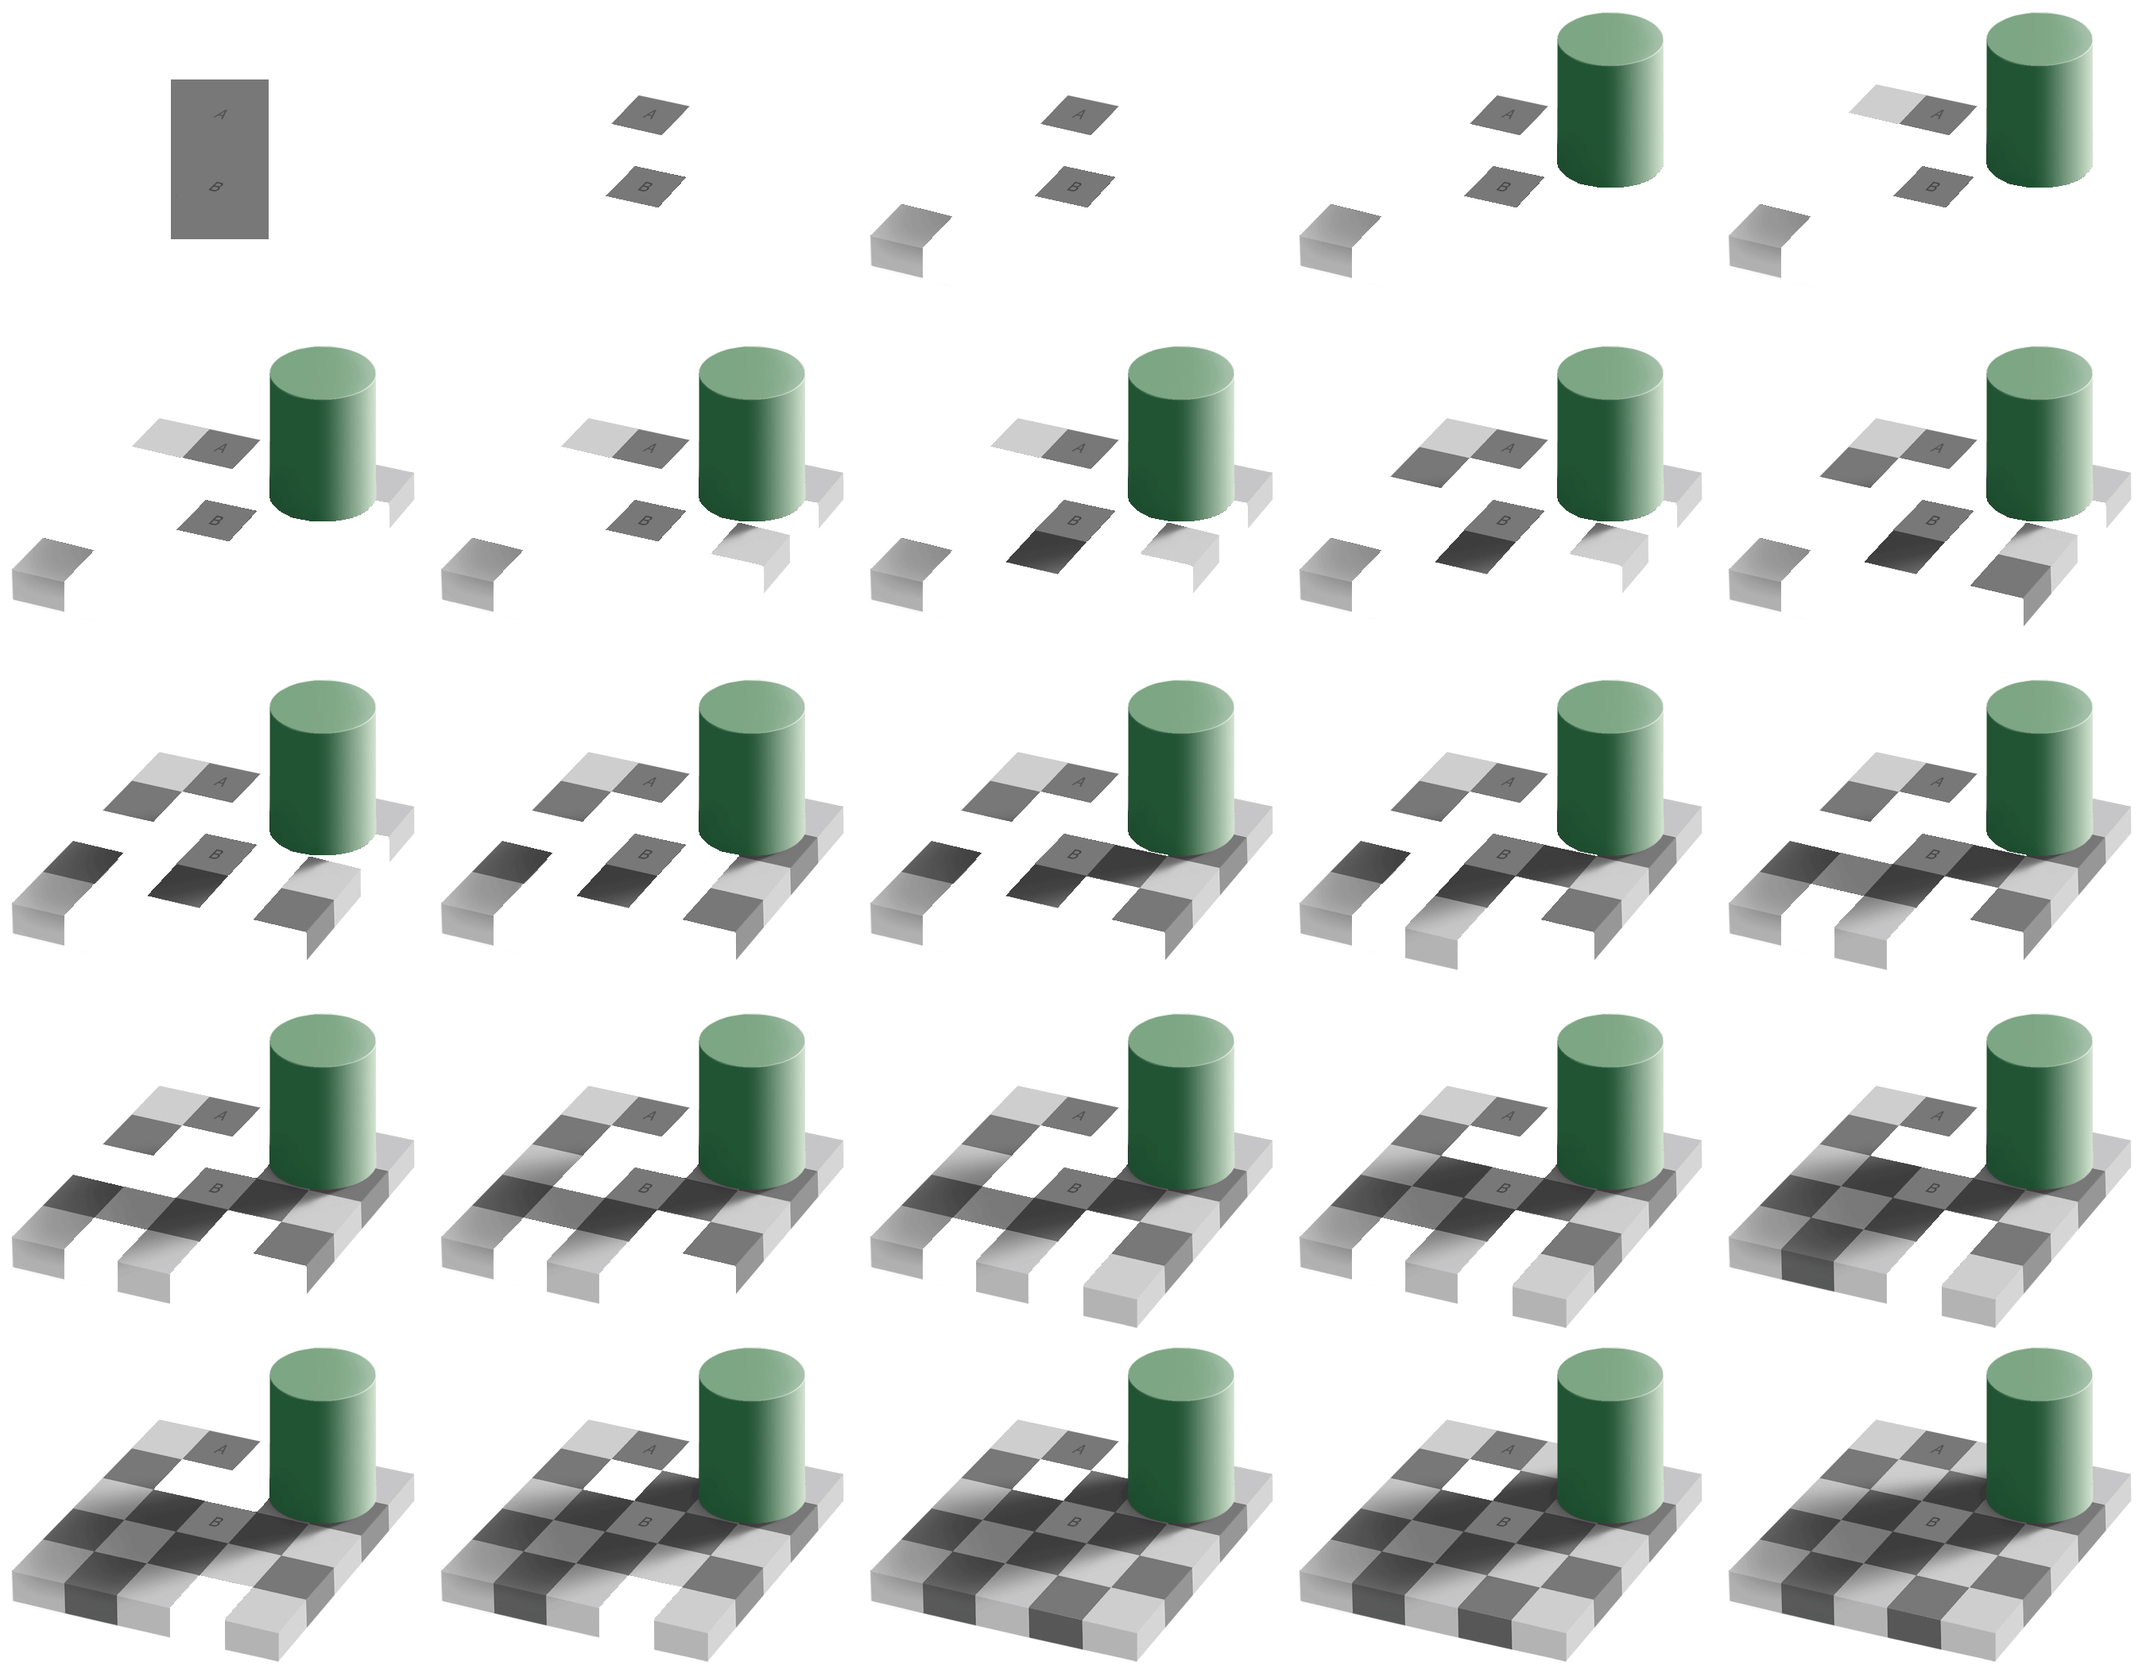
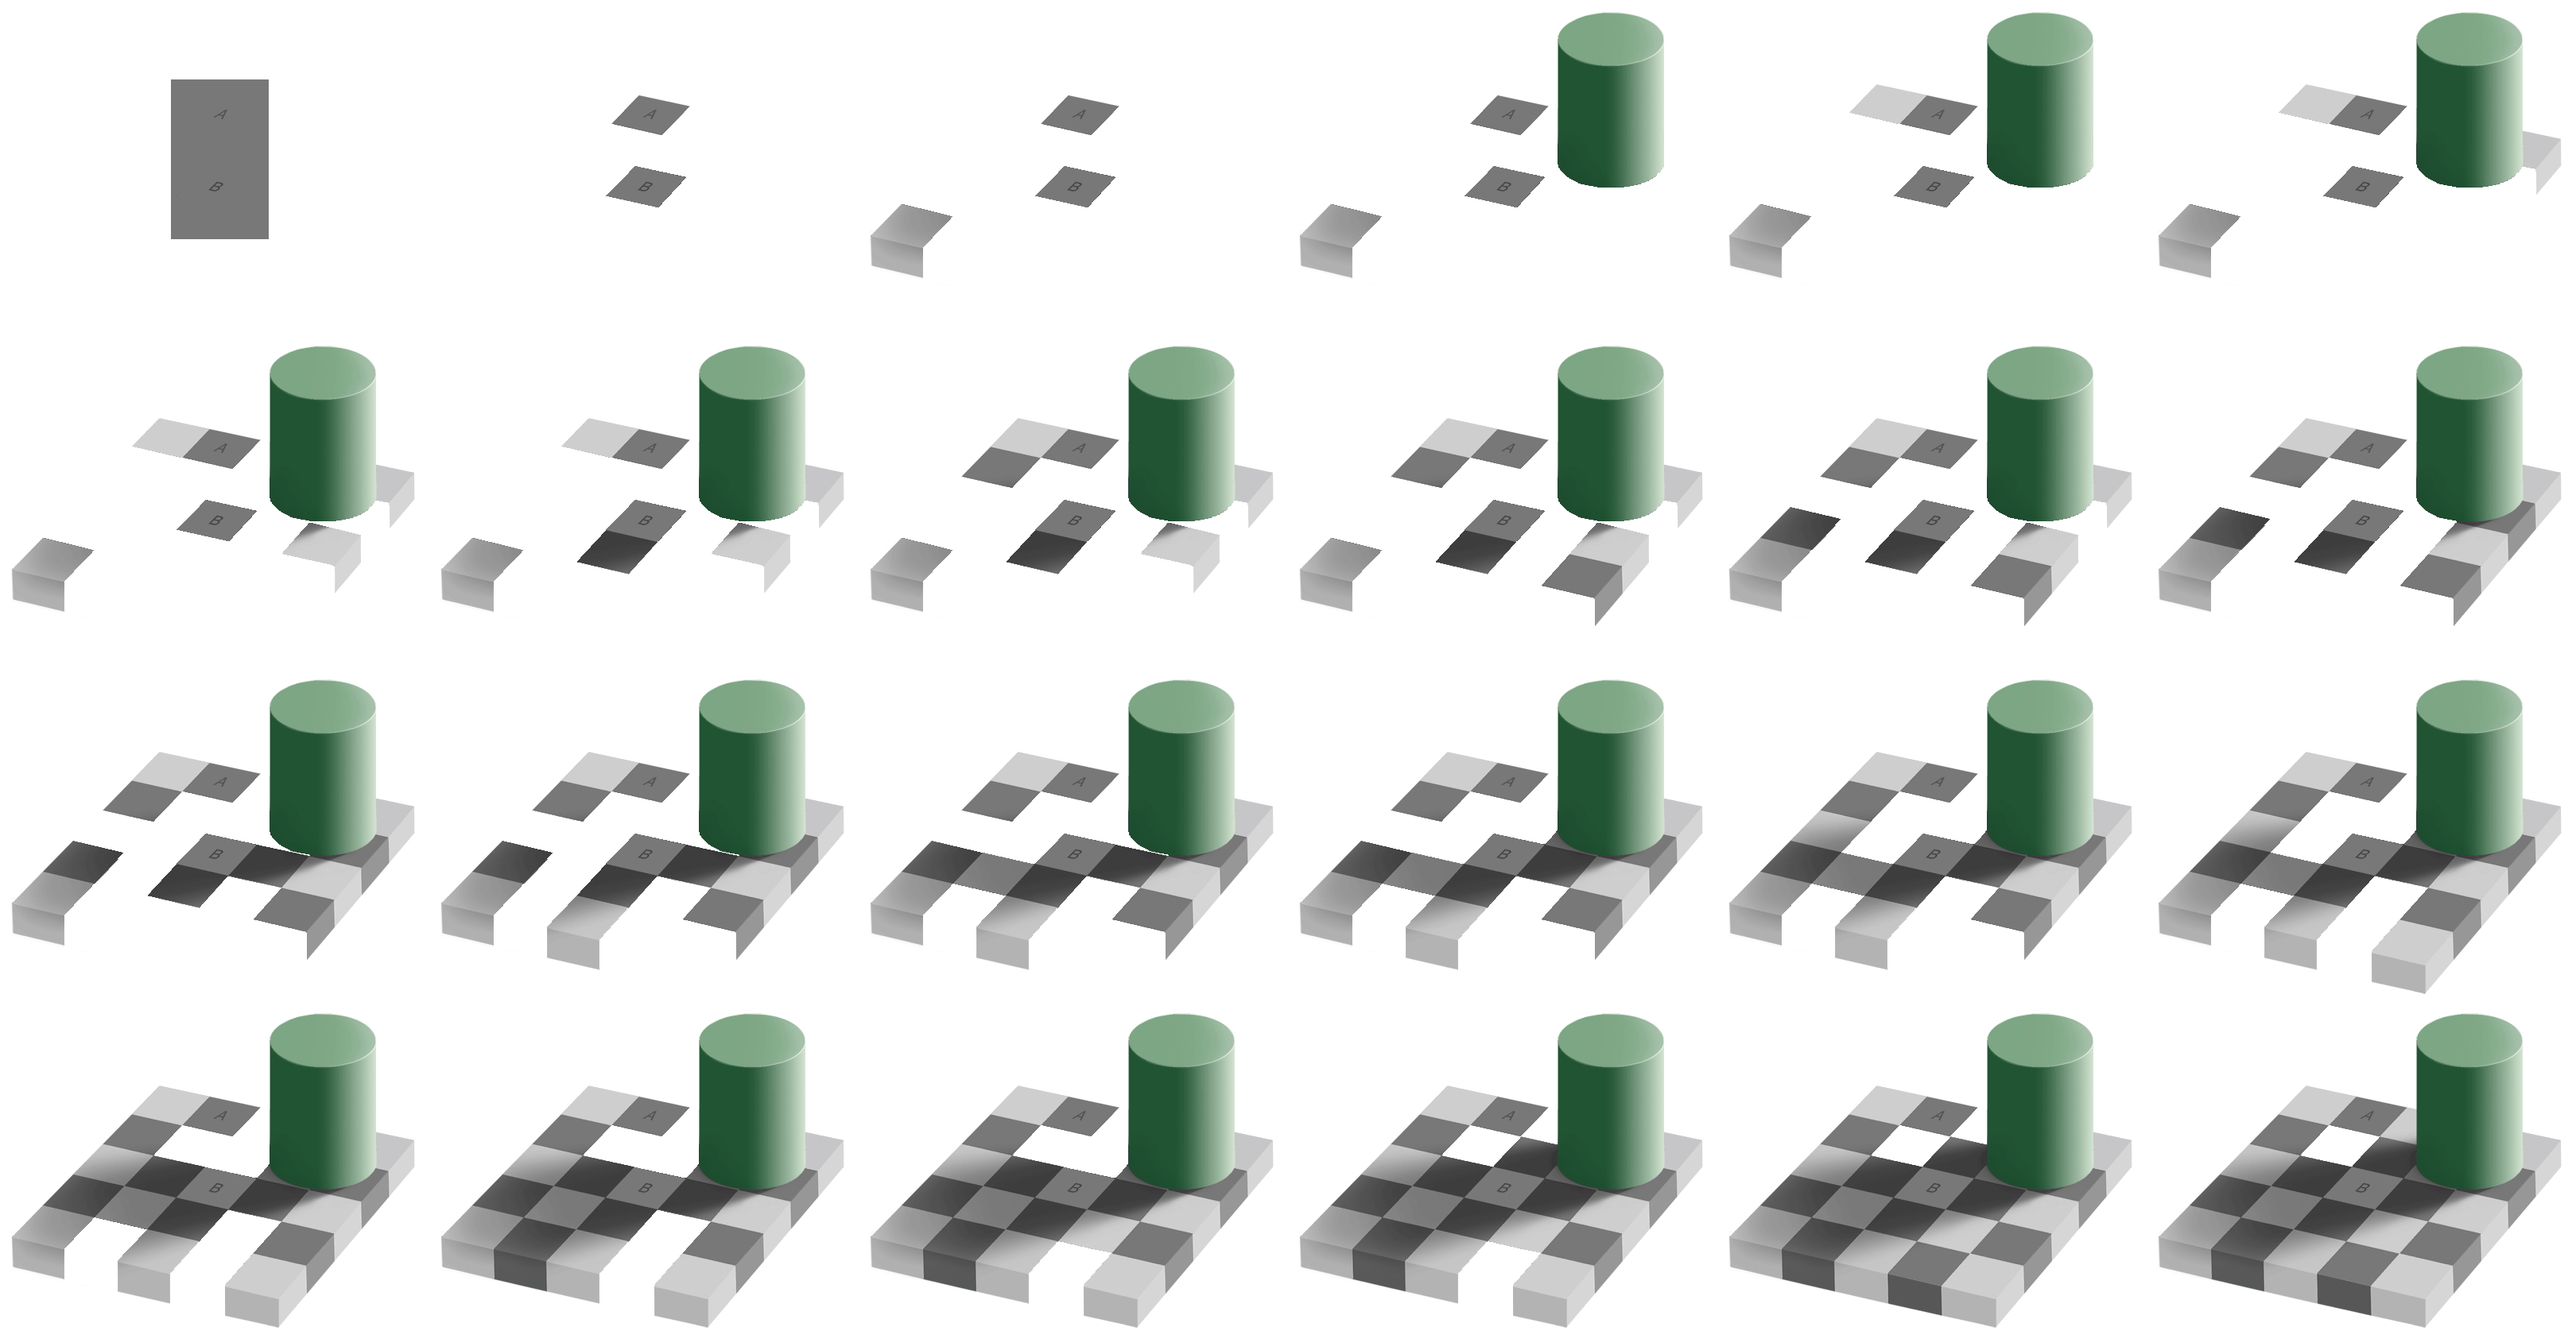
Trim checker-shadow scrub to 24 frames and show seven Ebbinghaus neighbours

diff --git a/docs/architecture.md b/docs/architecture.md
@@ -87,13 +87,14 @@ from `src/components/illusions/<slug>.astro`. Each demonstration owns its initia
 what is true" fields are stored. Prefer the original media where reuse is
 permitted and faithful; otherwise redraw or synthesise and credit the originator.
 All displayed media must be served from this site's own public assets; third-party
-URLs may only be used for attribution and source links. Adelson's original PNG
-belongs in `public/illustrations/checker-shadow-original.png`; the proof is an
-in-place SVG overlay (not a second externally sourced image). The production build
-checks the supplied original's dimensions and SHA-256 with
-`scripts/check-illusion-assets.mjs`. Missing or altered assets fail the build; no
-media are downloaded at runtime or during building. Commit the original PNG
-before merging the PR.
+URLs may only be used for attribution and source links. The checker-shadow
+original is stored in `public/illustrations/checker-shadow-original.png`, while
+its interactive reveal scrubs 24 unmodified frames from the freely reusable
+Wikimedia Commons GIF in a local, lossless `checker-shadow-scrub-frames.png`
+sprite. The final GIF frame is intentionally omitted. The original GIF is kept
+in `public/illustrations/checker-shadow-proof.gif` for provenance. The production
+build checks all these source assets' dimensions and SHA-256 using
+`scripts/check-illusion-assets.mjs`; no media are downloaded by the browser or build.
 `format` describes the editorial structure, not which sense the presentation
 uses. A visual vanishing puzzle may remain an argument; audio illusions may be
 added later without changing the format schema.

diff --git a/src/content/entries/checker-shadow-illusion.md b/src/content/entries/checker-shadow-illusion.md
@@ -23,7 +23,7 @@ sources:
     note: "Full-resolution PNG copy of Adelson's original, 1078 × 838 pixels."
   - title: "Wikimedia Commons: Optical illusion greysquares.gif"
     url: https://commons.wikimedia.org/wiki/File:Optical_illusion_greysquares.gif
-    note: "Proof animation by (3ucky(3all (2006); the interactive slider uses its 25 frames, rearranged in a lossless sprite. Commons permits unrestricted reuse."
+    note: "Proof animation by (3ucky(3all (2006); the interactive slider uses its first 24 frames (excluding the final frame), rearranged in a lossless sprite. Commons permits unrestricted reuse."
   - title: "Adelson's Checker-Shadow Illusion, Illusions Index"
     url: https://www.illusionsindex.org/i/adelson-s-checker-shadow-illusion
     note: "Explains the role of lightness constancy, shadow interpretation and contrast."
